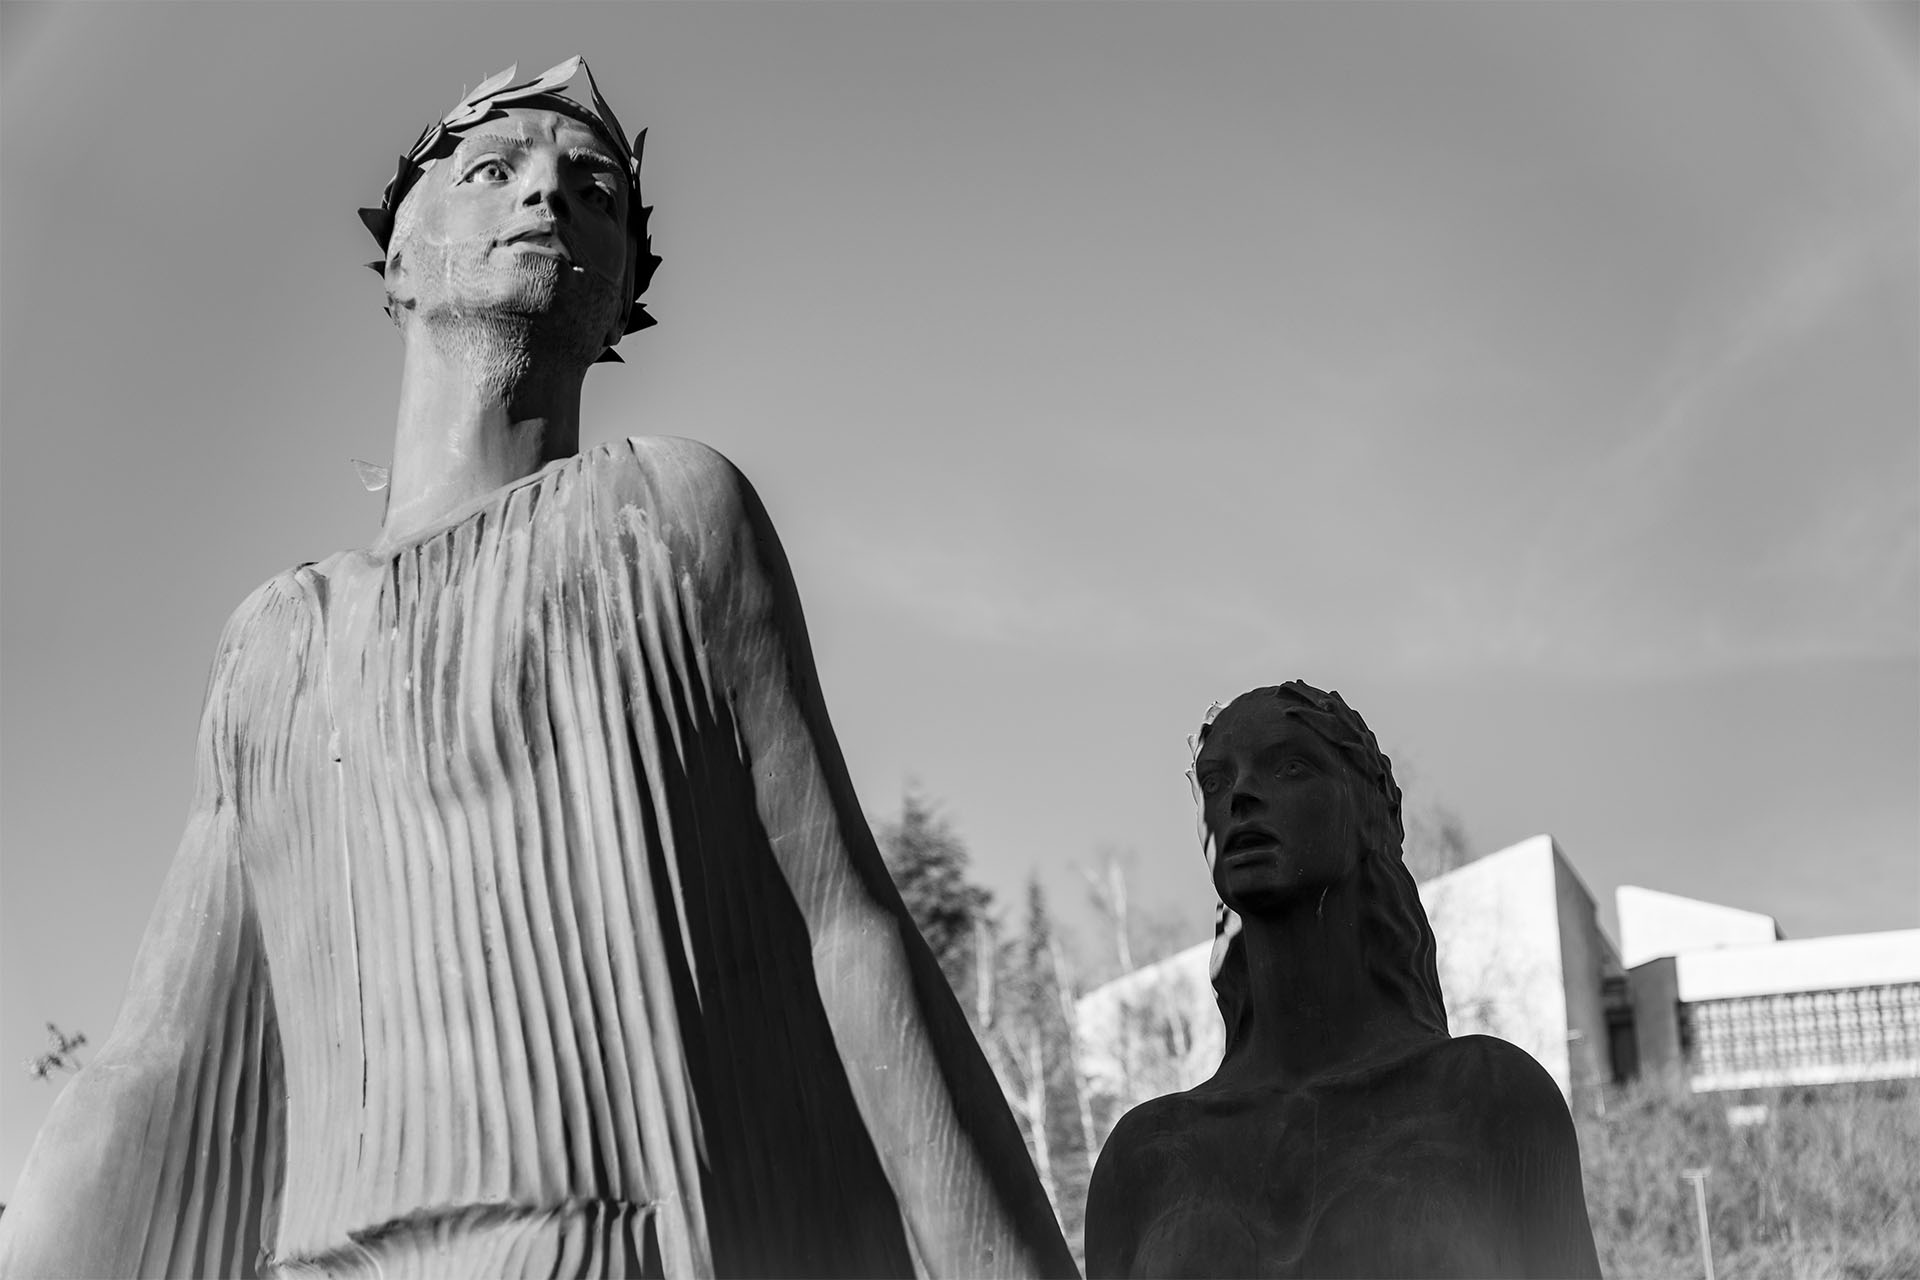
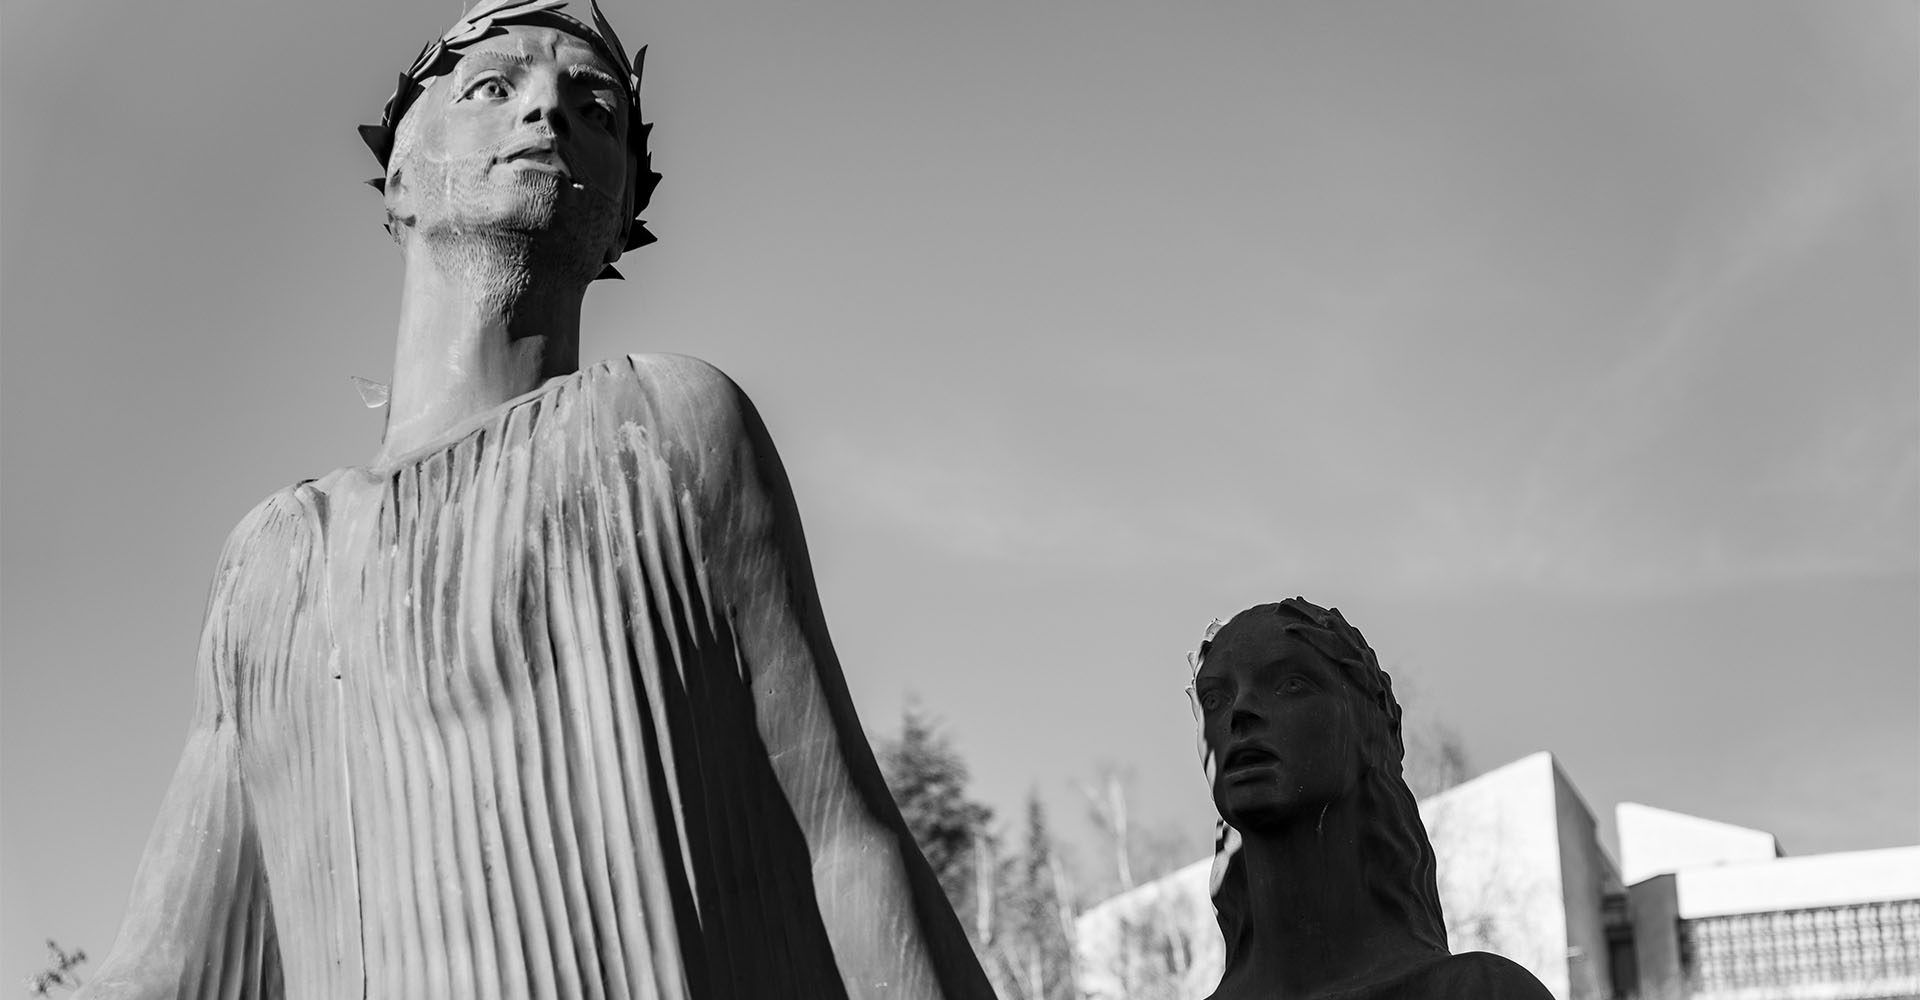
Added navmenu & hero image

Changed region(s): [[0.0, 0.341, 1.0, 1.0], [0.1875, 0.0, 0.3438, 0.341], [0.9688, 0.0, 1.0, 0.031]]

diff --git a/styles/index.css b/styles/index.css
@@ -1,38 +1,134 @@
+@import url("https://fonts.googleapis.com/css2?family=Lobster&family=Saira+Condensed:wght@300;400;700&display=swap");
+
 :root {
-  --title: 48px;
-  --cat: 48px;
-  --h1: 48px;
-  --h2: 36px;
+  --font-lobster: "Lobster", sans-serif;
+  --font-saira: "Saira Condensed", sans-serif;
+
+  --size-menu-title: 46px;
+  --size-menu-sub: 26px;
+  --size-menu-links: 18px;
+  --size-h1: 36px;
+  --size-h2: 24px;
+
+  --color-dark-100: rgba(14, 14, 14, 1);
+  --color-dark-75: rgba(14, 14, 14, 0.75);
+  --color-white-100: rgba(255, 255, 255, 1);
+  --color-white-75: rgba(255, 255, 255, 0.75);
 }
 
 body {
+  background: var(--color-dark-100);
+}
+
+/* 
+  !!! hyperlinks 
+*/
+
+a:link {
+  text-decoration: none;
+  color: var(--color-white-100);
+}
+
+a:visited {
+  text-decoration: none;
+  color: var(--color-white-100);
+}
+
+a:hover {
+  color: var(--color-white-100);
+  text-decoration: underline;
+}
+
+a:active {
+  color: var(--color-white-100);
+  text-decoration: underline;
+}
+
+/* 
+  !!! style rules menu 
+*/
+
+.navbar {
+  display: flex;
+  flex-direction: row;
+  align-items: center;
+  justify-content: space-between;
+  padding: 30px 0;
+}
+
+.navbar__logo {
+  display: flex;
+  flex-direction: row;
+  align-items: center;
+  gap: 10px;
+}
+
+.navbar__logo--text {
+  font-family: var(--font-lobster);
+  font-size: var(--size-menu-title);
+  color: var(--color-white-100);
+}
+
+.navbar__right {
   display: flex;
   flex-direction: column;
-  align-items: center;
-  background: #040404;
+  align-items: flex-end;
+  gap: 10px;
 }
 
-.menu {
+.navbar__right--title {
+  font-family: var(--font-saira);
+  font-size: var(--size-menu-sub);
+  color: var(--color-white-100);
+  letter-spacing: 5px;
+}
+
+.navbar__right--menu {
   display: flex;
-  width: 900px;
-  padding: 30px 0px;
+  flex-direction: row;
   align-items: center;
-  gap: 30px;
+  gap: 10px;
+  font-family: var(--font-saira);
+  font-size: var(--size-menu-links);
+  color: var(--color-white-100);
 }
 
-.menu-logo {
-  /* width: 390.192px; */
-  height: 100px;
-  flex-shrink: 0;
+/* 
+  !!! style rules hero 
+*/
+.hero img {
+  width: 100%;
 }
 
-.menu-title {
-  flex: 1 0 0;
-  color: #fff;
-  text-align: right;
-  font-family: "Saira Condensed";
-  font-size: var(--title);
-  font-style: normal;
-  font-weight: 300;
-  line-height: normal;
+/* 
+  !!! style rules shared 
+*/
+
+.container {
+  max-width: 1140px;
+  margin: auto;
+}
+
+@media (max-width: 1200px) {
+  .container {
+    max-width: 970px;
+  }
+}
+
+@media (max-width: 1024px) {
+  .container {
+    max-width: 740px;
+  }
+}
+
+@media (max-width: 768px) {
+  .container {
+    max-width: 500px;
+  }
+}
+
+@media (max-width: 568px) {
+  .container {
+    max-width: 90%;
+  }
 }

diff --git a/index.html b/index.html
@@ -3,29 +3,27 @@
   <head>
     <meta charset="UTF-8" />
     <meta name="viewport" content="width=device-width, initial-scale=1.0" />
-    <title>Document</title>
-    <link rel="preconnect" href="https://fonts.googleapis.com" />
-    <link rel="preconnect" href="https://fonts.gstatic.com" crossorigin />
-    <link
-      href="https://fonts.googleapis.com/css2?family=Lobster&family=Saira+Condensed:wght@300;400;700&display=swap"
-      rel="stylesheet"
-    />
+    <title>trayan iliev</title>
+    <link rel="stylesheet" href="styles/reset.css" />
     <link rel="stylesheet" href="styles/index.css" />
   </head>
   <body>
-    <div class="menu">
-      <div class="menu-logo">
-        <img src="images/logo.png" alt="trayan iliev" />
+    <div class="navbar container">
+      <div class="navbar__logo">
+        <img src="images/logo.png" />
+        <div class="navbar__logo--text">Trayan Iliev</div>
       </div>
-      <div class="menu-title">Graphic Designer</div>
+      <div class="navbar__right">
+        <div class="navbar__right--title">Graphic Designer</div>
+        <div class="navbar__right--menu">
+          <div><a href="#portfolio">Portfolio</a></div>
+          <div>|</div>
+          <div><a href="#experience">Experience</a></div>
+          <div>|</div>
+          <div><a href="#contacts">Contacts</a></div>
+        </div>
+      </div>
     </div>
-    <!-- <div class="header">
-      <div class="header-icon"><img src="images/header-icon.svg" /></div>
-      <div class="header-text font-lobster">Portfolio</div>
-      <div class="header-fill"></div>
-    </div>
-    <div class="hero"></div>
-    <div class="portfolio"></div>
-    <div class="footer"></div> -->
+    <div class="hero"><img src="images/hero.jpg" alt="hero image" /></div>
   </body>
 </html>

diff --git a/styles/reset.css b/styles/reset.css
@@ -1,0 +1,48 @@
+/* http://meyerweb.com/eric/tools/css/reset/ 
+   v2.0 | 20110126
+   License: none (public domain)
+*/
+
+html, body, div, span, applet, object, iframe,
+h1, h2, h3, h4, h5, h6, p, blockquote, pre,
+a, abbr, acronym, address, big, cite, code,
+del, dfn, em, img, ins, kbd, q, s, samp,
+small, strike, strong, sub, sup, tt, var,
+b, u, i, center,
+dl, dt, dd, ol, ul, li,
+fieldset, form, label, legend,
+table, caption, tbody, tfoot, thead, tr, th, td,
+article, aside, canvas, details, embed, 
+figure, figcaption, footer, header, hgroup, 
+menu, nav, output, ruby, section, summary,
+time, mark, audio, video {
+	margin: 0;
+	padding: 0;
+	border: 0;
+	font-size: 100%;
+	font: inherit;
+	vertical-align: baseline;
+}
+/* HTML5 display-role reset for older browsers */
+article, aside, details, figcaption, figure, 
+footer, header, hgroup, menu, nav, section {
+	display: block;
+}
+body {
+	line-height: 1;
+}
+ol, ul {
+	list-style: none;
+}
+blockquote, q {
+	quotes: none;
+}
+blockquote:before, blockquote:after,
+q:before, q:after {
+	content: '';
+	content: none;
+}
+table {
+	border-collapse: collapse;
+	border-spacing: 0;
+}
